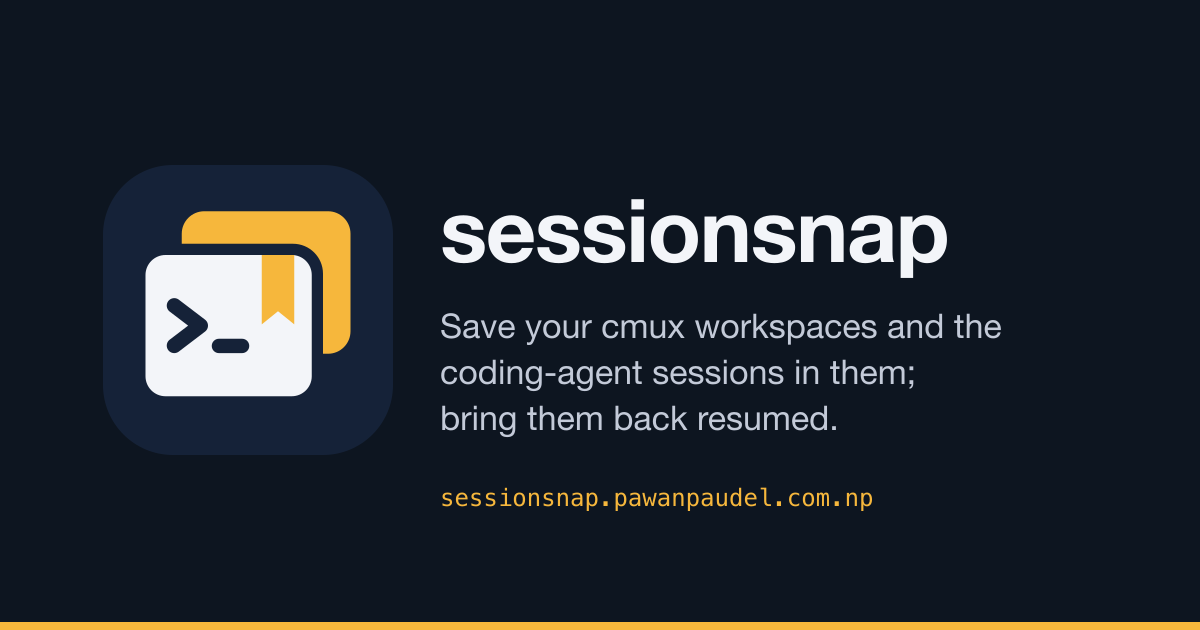
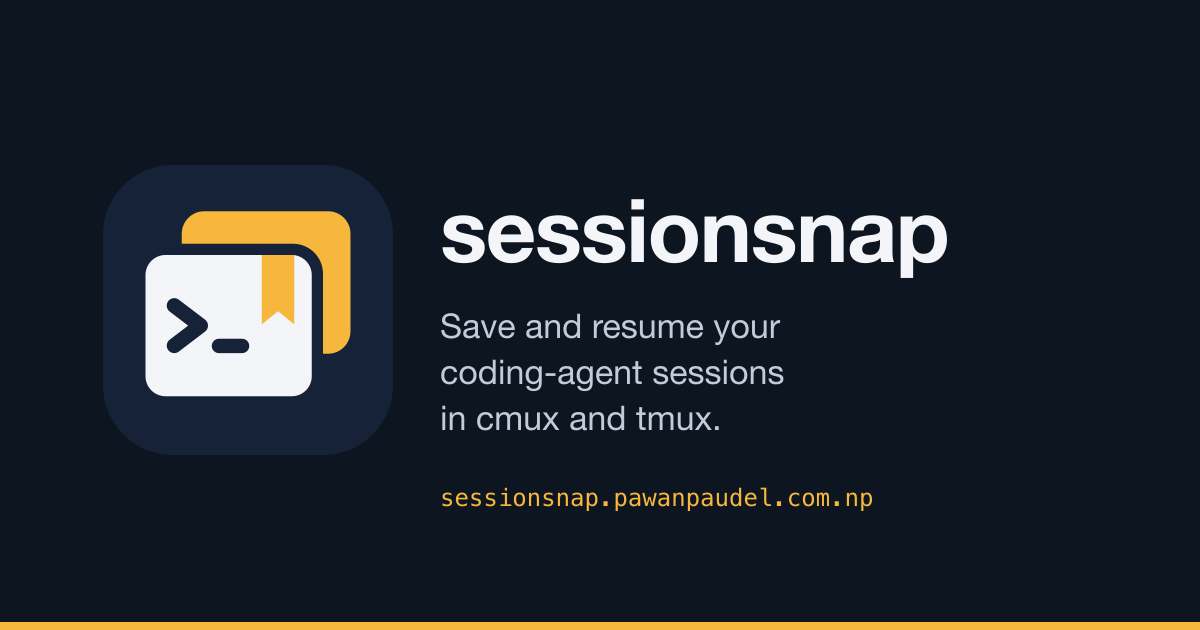
docs: lead with "save and resume your coding-agent sessions in cmux and tmux"

Changed region(s): [[0.37, 0.6333, 0.7092, 0.6937], [0.4317, 0.4825, 0.8325, 0.5429], [0.6475, 0.573, 0.7708, 0.6333]]

diff --git a/site/index.html b/site/index.html
@@ -3,25 +3,25 @@
   <head>
     <meta charset="utf-8" />
     <meta name="viewport" content="width=device-width, initial-scale=1" />
-    <title>sessionsnap — Snapshots of cmux or tmux Workspaces and Agent Sessions</title>
+    <title>sessionsnap — Save and Resume Coding-Agent Sessions in cmux and tmux</title>
     <meta
       name="description"
-      content="Save your cmux or tmux workspaces and the coding-agent sessions in them, then bring them back resumed. Named, versioned snapshots for Claude Code, Codex and more."
+      content="Save and resume your coding-agent sessions in cmux and tmux. Named, versioned snapshots of your workspaces and tabs that bring back only what is missing, for Claude Code, Codex and more."
     />
-    <meta property="og:title" content="sessionsnap — Snapshots of cmux or tmux Workspaces and Agent Sessions" />
+    <meta property="og:title" content="sessionsnap — Save and Resume Coding-Agent Sessions in cmux and tmux" />
     <meta
       property="og:description"
-      content="Save your cmux or tmux workspaces and the coding-agent sessions in them, then bring them back resumed. Named, versioned snapshots for Claude Code, Codex and more."
+      content="Save and resume your coding-agent sessions in cmux and tmux. Named, versioned snapshots of your workspaces and tabs that bring back only what is missing, for Claude Code, Codex and more."
     />
     <meta property="og:type" content="website" />
     <meta property="og:image" content="https://sessionsnap.pawanpaudel.com.np/og.png" />
     <meta name="twitter:card" content="summary_large_image" />
     <meta property="og:url" content="https://sessionsnap.pawanpaudel.com.np/" />
     <link rel="canonical" href="https://sessionsnap.pawanpaudel.com.np/" />
-    <meta name="twitter:title" content="sessionsnap — Snapshots of cmux or tmux Workspaces and Agent Sessions" />
-    <meta name="twitter:description" content="Save your cmux or tmux workspaces and the coding-agent sessions in them, then bring them back resumed. Named, versioned snapshots for Claude Code, Codex and more." />
+    <meta name="twitter:title" content="sessionsnap — Save and Resume Coding-Agent Sessions in cmux and tmux" />
+    <meta name="twitter:description" content="Save and resume your coding-agent sessions in cmux and tmux. Named, versioned snapshots of your workspaces and tabs that bring back only what is missing, for Claude Code, Codex and more." />
     <meta name="twitter:image" content="https://sessionsnap.pawanpaudel.com.np/og.png" />
-    <meta property="og:image:alt" content="sessionsnap — save cmux or tmux workspaces and agent sessions, bring them back resumed" />
+    <meta property="og:image:alt" content="sessionsnap — save and resume your coding-agent sessions in cmux and tmux" />
     <meta name="theme-color" content="#0d1520" media="(prefers-color-scheme: dark)" />
     <meta name="theme-color" content="#f6f7fa" media="(prefers-color-scheme: light)" />
     <link rel="icon" href="favicon.svg" type="image/svg+xml" />
@@ -32,7 +32,7 @@
       "@context": "https://schema.org",
       "@type": "SoftwareSourceCode",
       "name": "sessionsnap",
-      "description": "Save your cmux or tmux workspaces and the coding-agent sessions in them, then bring them back resumed. Named, versioned snapshots for Claude Code, Codex and more.",
+      "description": "Save and resume your coding-agent sessions in cmux and tmux. Named, versioned snapshots of your workspaces and tabs that bring back only what is missing, for Claude Code, Codex and more.",
       "url": "https://sessionsnap.pawanpaudel.com.np/",
       "codeRepository": "https://github.com/pawanpaudel93/sessionsnap",
       "license": "https://opensource.org/license/mit",
@@ -71,7 +71,7 @@
       <section class="shell hero hero-split" id="install">
         <div class="hero-inner">
           <p class="eyebrow">cmux · tmux · Claude Code · Codex</p>
-          <h1>Save your cmux or tmux workspaces. Bring them back resumed.</h1>
+          <h1>Save and resume your coding-agent sessions.</h1>
           <p class="hero-copy">
             sessionsnap takes named, versioned snapshots of your cmux or tmux workspaces and the
             coding-agent sessions in their tabs. Later it reopens only what is missing, with each agent resumed in

diff --git a/site/docs.html b/site/docs.html
@@ -21,7 +21,7 @@
     <meta name="twitter:title" content="sessionsnap Docs: Install, Commands and JSON Reference" />
     <meta name="twitter:description" content="Install sessionsnap and use every command: save, show, diff, edit and restore cmux and tmux snapshots, JSON output and exit codes, the web UI, files, security and updating." />
     <meta name="twitter:image" content="https://sessionsnap.pawanpaudel.com.np/og.png" />
-    <meta property="og:image:alt" content="sessionsnap — save cmux workspaces and agent sessions, bring them back resumed" />
+    <meta property="og:image:alt" content="sessionsnap — save and resume your coding-agent sessions in cmux and tmux" />
     <meta name="theme-color" content="#0d1520" media="(prefers-color-scheme: dark)" />
     <meta name="theme-color" content="#f6f7fa" media="(prefers-color-scheme: light)" />
     <link rel="icon" href="favicon.svg" type="image/svg+xml" />

diff --git a/src/interfaces/cli/mod.rs b/src/interfaces/cli/mod.rs
@@ -16,7 +16,7 @@ use crate::error::{Exit, exit_of};
 #[command(
     name = "sessionsnap",
     version,
-    about = "Named, versioned snapshots of cmux workspaces or tmux sessions and their agent sessions (Claude Code, Codex and more)"
+    about = "Save and resume your coding-agent sessions in cmux and tmux (Claude Code, Codex and more), as named, versioned snapshots"
 )]
 pub struct Cli {
     /// Print machine-readable JSON (never prompts)

diff --git a/README.md b/README.md
@@ -5,7 +5,7 @@
 ![Platform: macOS | Linux](https://img.shields.io/badge/platform-macOS%20%7C%20Linux-lightgrey)
 ![Terminal: cmux | tmux](https://img.shields.io/badge/terminal-cmux%20%7C%20tmux-8A2BE2)
 
-**Save your cmux or tmux workspaces and the coding-agent sessions in them; bring them back resumed.**
+**Save and resume your coding-agent sessions in cmux and tmux.**
 
 Website: <https://sessionsnap.pawanpaudel.com.np>
 
